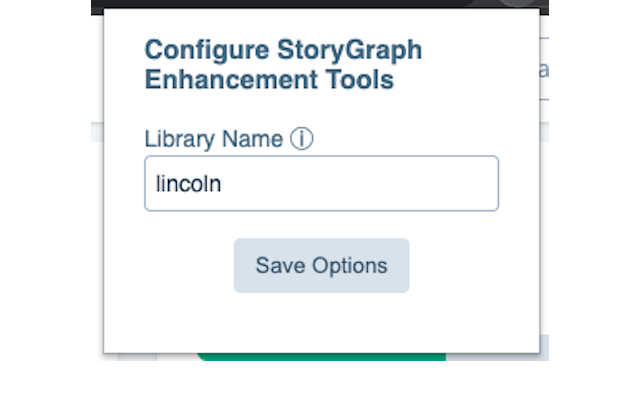
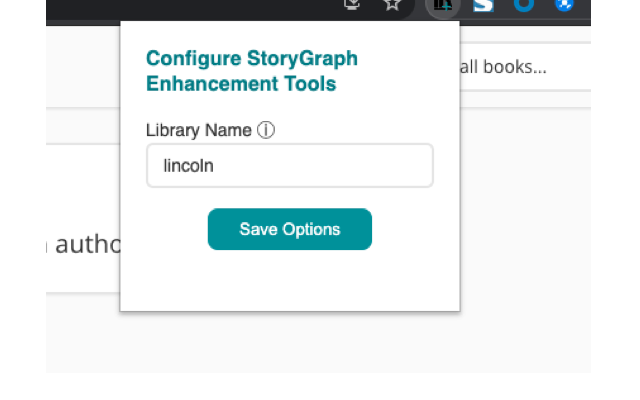
v1.0.1 RC (#5)
* Update link styling, options styling after UI updates

* Update screenshots, logos

* Restructure, add build script, make info icon clickable

diff --git a/src/book-view-links.js b/src/book-view-links.js
@@ -4,11 +4,8 @@
     const BOOK_PANE_SELECTOR = '.book-pane[data-book-id]';
 
     const LIBBY_LINK_SELECTOR = 'libby-link';
-    const LIBBY_LINK_CLASSES = `font-semibold text-xs cursor-pointer ${LIBBY_LINK_SELECTOR}`;
-    const LIBBY_LINK_TEXT = 'Library Search';
-
-    const DIVIDER_CLASSES = 'label';
-    const DIVIDER_TEXT = '| ';
+    const LIBBY_LINK_CLASSES = `${LIBBY_LINK_SELECTOR} text-xs cursor-pointer hover:text-cyan-700 border-b`;
+    const LIBBY_LINK_TEXT = 'Library';
 
     const buildLibbyLinkUrl = (libraryName, title, author) => encodeURI(`https://libbyapp.com/search/${libraryName}/search/query-${title} ${author}/page-1`);
 
@@ -21,13 +18,6 @@
         return libbyLink;
     };
 
-    const buildDividerElement = () => {
-        const divider = document.createElement('span');
-        divider.className = DIVIDER_CLASSES;
-        divider.textContent = DIVIDER_TEXT;
-        return divider;
-    }
-
     const buildActionLinks = (bookPanes, libraryName) => {
         [...bookPanes].forEach(bookPane => {
             if (bookPane.getElementsByClassName(LIBBY_LINK_SELECTOR).length) return;
@@ -36,9 +26,7 @@
             const title = bookPane.getElementsByTagName('h3')[0].innerText;
             const author = bookPane.getElementsByClassName('mb-1')[0].innerText;
 
-            const divider = buildDividerElement();
             const libbyLink = buildLibbyLinkElement(libraryName, title, author);
-            actionLinks.append(divider);
             actionLinks.append(libbyLink);
         });
     };

diff --git a/src/options/reset.css b/src/options/reset.css
@@ -1,0 +1,48 @@
+/* http://meyerweb.com/eric/tools/css/reset/ 
+   v2.0 | 20110126
+   License: none (public domain)
+*/
+
+html, body, div, span, applet, object, iframe,
+h1, h2, h3, h4, h5, h6, p, blockquote, pre,
+a, abbr, acronym, address, big, cite, code,
+del, dfn, em, img, ins, kbd, q, s, samp,
+small, strike, strong, sub, sup, tt, var,
+b, u, i, center,
+dl, dt, dd, ol, ul, li,
+fieldset, form, label, legend,
+table, caption, tbody, tfoot, thead, tr, th, td,
+article, aside, canvas, details, embed, 
+figure, figcaption, footer, header, hgroup, 
+menu, nav, output, ruby, section, summary,
+time, mark, audio, video {
+	margin: 0;
+	padding: 0;
+	border: 0;
+	font-size: 100%;
+	font: inherit;
+	vertical-align: baseline;
+}
+/* HTML5 display-role reset for older browsers */
+article, aside, details, figcaption, figure, 
+footer, header, hgroup, menu, nav, section {
+	display: block;
+}
+body {
+	line-height: 1;
+}
+ol, ul {
+	list-style: none;
+}
+blockquote, q {
+	quotes: none;
+}
+blockquote:before, blockquote:after,
+q:before, q:after {
+	content: '';
+	content: none;
+}
+table {
+	border-collapse: collapse;
+	border-spacing: 0;
+}

diff --git a/src/options/options.css b/src/options/options.css
@@ -1,0 +1,57 @@
+.container {
+    margin: 1.25rem;
+    font-family: "Open Sans", sans-serif;
+    font-size: 14px;
+    color: rgb(51, 51, 51);
+    line-height: 20px;
+}
+
+h5 {
+    font-size: 16px;
+    font-weight: 700;
+    color: rgb(14, 124, 134);
+    margin-bottom: 1rem;
+}
+
+label a {
+    color: rgb(51, 51, 51);
+    text-decoration: none;
+}
+
+label a:hover {
+    color: rgb(14, 124, 134);
+}
+
+.info {
+    min-height: 1.5rem;
+    text-align: center;
+    margin-top: 0.25rem;
+    line-height: 24px;
+}
+
+.input-standard {
+    width: 200px;
+    font-family: "Open Sans", sans-serif;
+    font-size: 14px;
+    border: 2px solid rgb(229, 229, 229);
+    border-radius: 6px;
+    padding: 8px 12px;
+    color: rgb(51, 51, 51);
+    margin: 1px;
+}
+
+.btn-primary {
+    display: block;
+    margin: 1rem auto 0 auto;
+    background-color: rgb(20, 145, 155);
+    color: rgb(255, 255, 255);
+    padding: 8px 24px;
+    border: 1px solid transparent;
+    border-radius: 8px;
+}
+
+.input-standard:focus {
+    border: 3px solid rgb(48, 145, 156);
+    border-radius: 6px;
+    margin: 0px;
+}

diff --git a/src/options/options.html b/src/options/options.html
@@ -1,0 +1,22 @@
+<!DOCTYPE html>
+<html>
+    <head>
+        <link rel="stylesheet" href="reset.css" />
+        <link rel="stylesheet" href="options.css" />
+        <title>StoryGraph Enhancement Tools Settings</title>
+    </head>
+
+    <div class="container">
+        <h5>Configure StoryGraph Enhancement Tools</h5>
+
+        <label for="library-name">
+            Library Name <a href="https://libbyapp.com" target="_blank" title="Log into libbyapp.com, select the search icon, and find your library name in the URL">&#9432;</a>
+        </label>
+        <input type="text" class="input-standard" placeholder="e.g. Lincoln" id="library-name" name="library-name">
+
+        <input id="save" class="btn-primary" type="submit" name="save" value="Save Options">
+        <div id="status" class="info">
+    </div>
+
+    <script src="options.js"></script>
+</html>

diff --git a/docs/CHANGELOG.md b/docs/CHANGELOG.md
@@ -5,6 +5,17 @@ All notable changes to this project will be documented in this file.
 The format is based on [Keep a Changelog](https://keepachangelog.com/en/1.0.0/),
 and this project adheres to [Semantic Versioning](https://semver.org/spec/v2.0.0.html).
 
+## [1.0.1] - 2021-05-03
+
+### Added
+
+- Make `Library Name` info icon clickable
+
+### Fixed
+
+- Updated link styling (and text to fit) after StoryGraph UI updates
+- Options styling conflicts with user agent style sheets
+
 ## [1.0.0] - 2021-04-30
 
 ### Added
